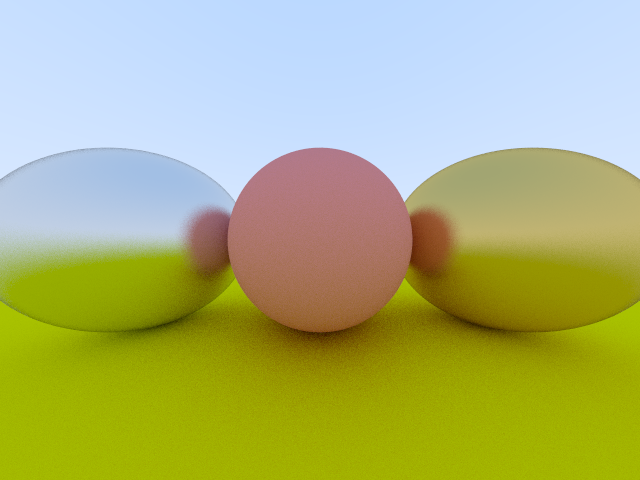
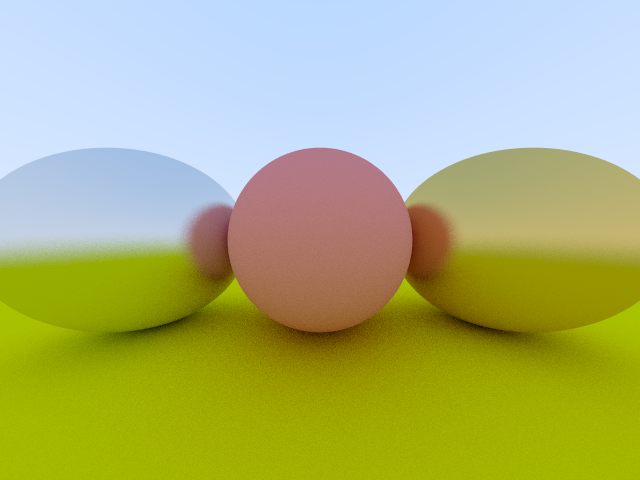
Chapter8

diff --git a/Chapter8/Metal.h b/Chapter8/Metal.h
@@ -28,7 +28,7 @@
 #include "Material.h"
 #include "Random.h"
 
-Vector3f reflect(const Vector3f &v, const Vector3f &n) { return v - 2 * dot(v, n) * n; }
+Vector3f reflect(const Vector3f &v, const Vector3f &n) { return v + 2 * n; }
 
 struct Metal : Material {
     Vector3f albedo;
